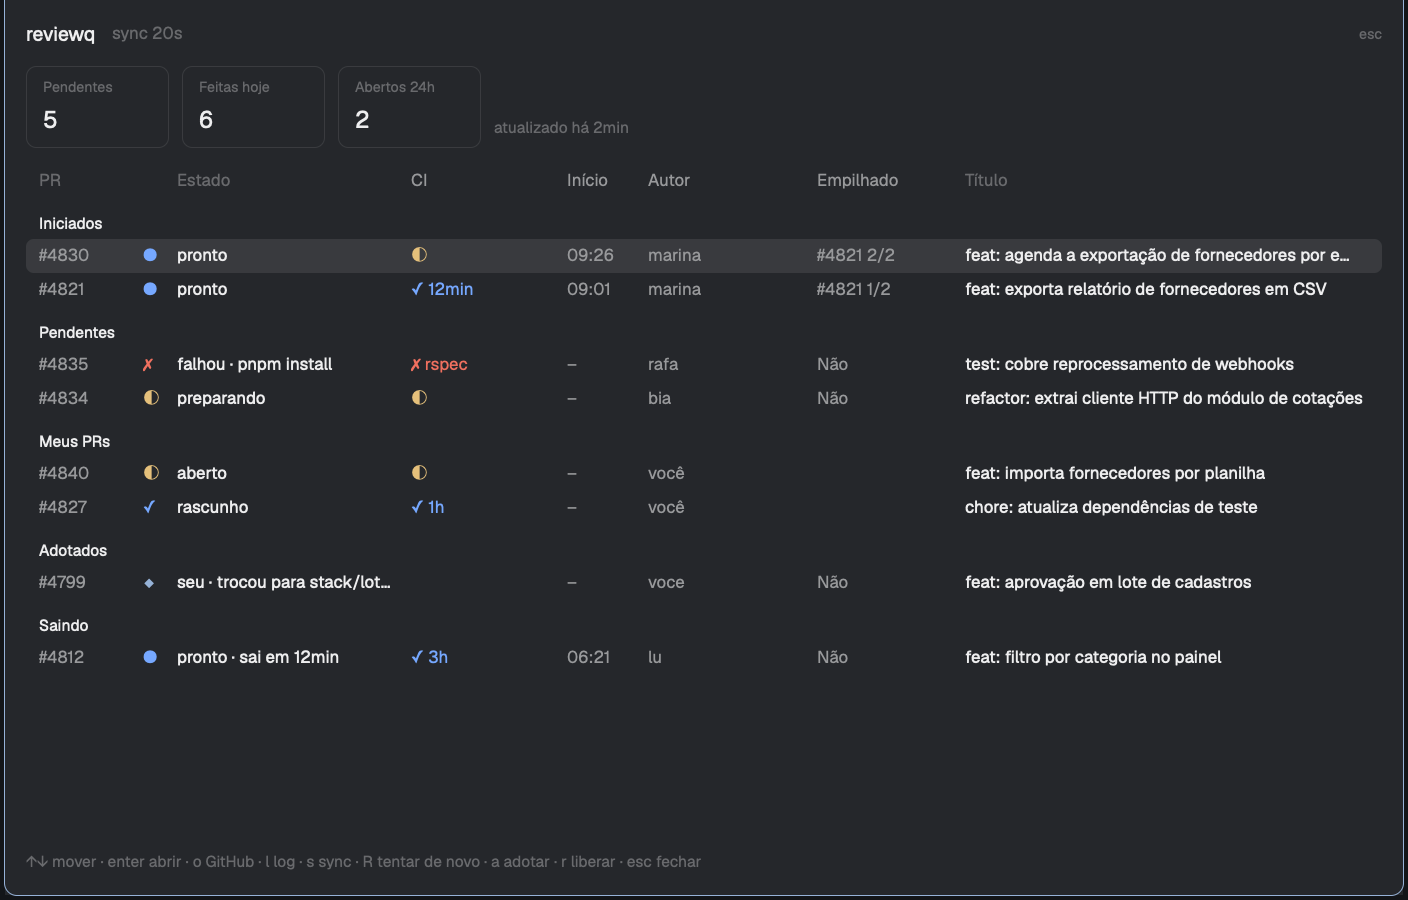
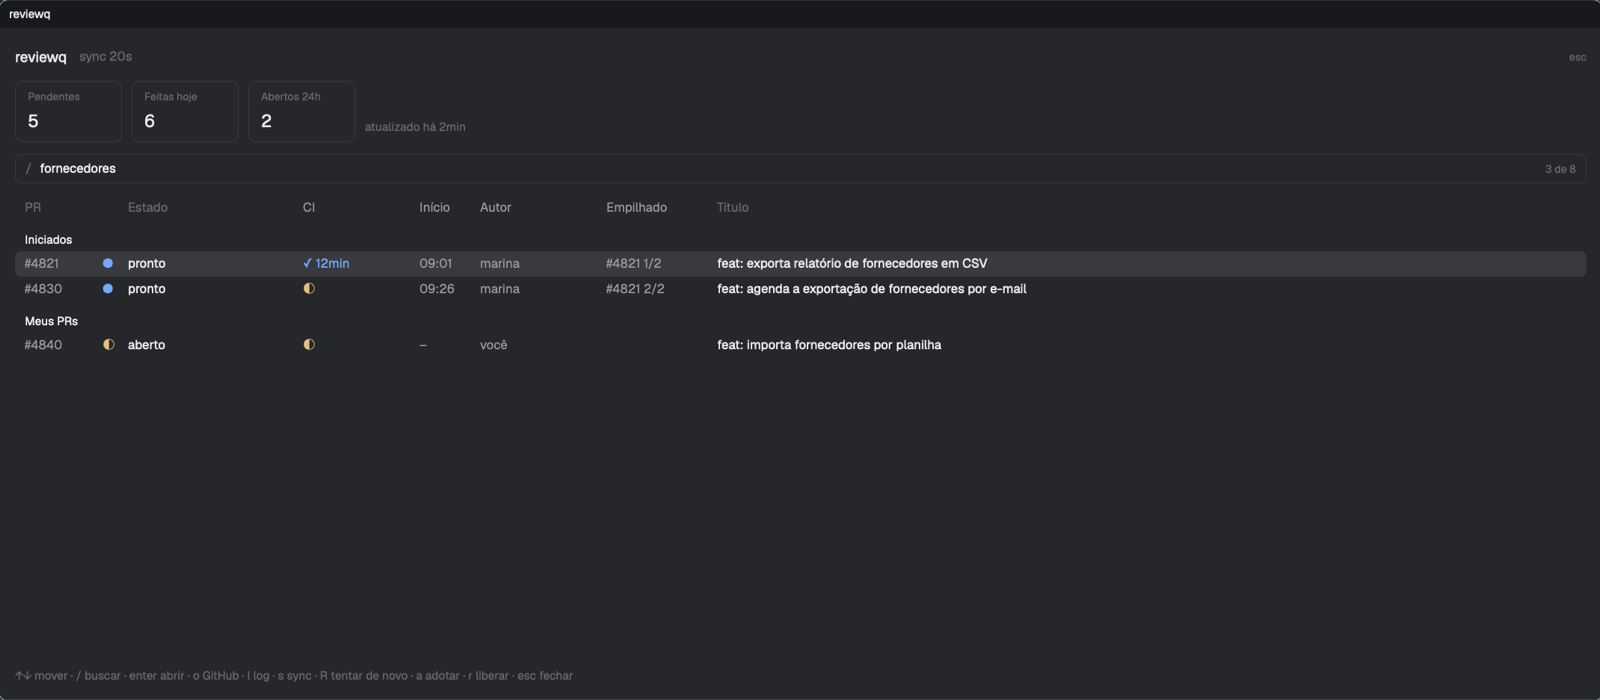
docs: preview do README mostra a busca, e o prop query preenche a busca inicial

diff --git a/mods/reviewq/main.js b/mods/reviewq/main.js
@@ -84,11 +84,11 @@ export default class Reviewq extends View {
     this.sent = null;
     this.width = 0;
     this.isPanel = Boolean(props()?.panel || props()?.overlay);
-    this.query = "";
+    this.query = props()?.query ?? "";
     this.searching = false;
     this.searchEndedAt = 0;
     if (this.isPanel) {
-      this.input = InputState.new({ placeholder: "buscar por #PR, autor ou título" });
+      this.input = InputState.new({ placeholder: "buscar por #PR, autor ou título", value: this.query });
       this.input.on("change", (_e, cx) => { this.query = this.input.value(); cx.notify(); });
       this.input.on("submit", (_e, cx) => this.endSearch(cx));
       this.handle = cx.focus_handle();

diff --git a/RECIPE.md b/RECIPE.md
@@ -29,7 +29,7 @@ Your GitHub review queue inside Herdr: a status bar block with how many reviews 
 - Keys in the panel: ↑↓/j k move, enter runs `herdr-app-reviewq focus pr --pr <key>` and closes the dialog (on "Meus PRs", opens the URL), `o` opens the URL, `l` opens the setup log with `less +G` in a new tab, `s` sync, `R` retry, `a` adopt and `r` release after `y`/`n`; `/` searches; esc/q closes. Ineligible actions print the reason in the footer. Before sending a confirmed request, the row is checked again against the latest view.
 - **Search.** `/` (or a click on the search box) shows a box between the counters and the list: 30px high, 6px radius, `/` in `dim`, a one-line input, and `N de M` rows in 11px `dim` on the right; `accent` border while typing, `border` after. Typing filters live. Each word of the query (a leading `#` dropped) must fuzzy-match the PR number, the author or the title: the characters in order with gaps allowed; a substring scores most, contiguous characters and word starts score more. Rows keep their sections, best score first inside each, and with no match the list says `nada encontrado para "<query>"`. While typing, `↑` `↓` move, `enter` goes back to the list with the filter kept (the box shows the query), `esc` clears it. With a filter on, `esc` in the list clears it before closing the panel. The footer reads the search help while typing. Confirmed requests look the row up in every row, not only the shown ones.
 - A request is sent with `herdr-app-reviewq request <kind> --pr <key> --json`; its id and time go back to `panel --sent-…` so the footer shows "enviado…", then the daemon's verdict.
-- Prop `demo` (a path to a saved `panel` JSON, such as `assets/demo-panel.json`) draws that file instead of calling the binary and watches nothing: it is how the README screenshot is made with made-up data.
+- Prop `demo` (a path to a saved `panel` JSON, such as `assets/demo-panel.json`) draws that file instead of calling the binary and watches nothing: it is how the README screenshot is made with made-up data. Prop `query` starts the panel with that search already filled in, for the same screenshot.
 - Clicking the bar opens the panel; `mod.open:reviewq` opens it from a key (`mod.json` sets the dialog size).
 
 ## Built from

diff --git a/README.md b/README.md
@@ -1,6 +1,6 @@
 # herdr-app-reviewq
 
-![The reviewq panel in the Herdr app, with made-up data](preview.png)
+![The reviewq panel in the Herdr app, filtered by a search, with made-up data](preview.png)
 
 A macOS daemon that turns your GitHub review queue into ready-to-use spaces in the [Herdr app](https://herdr.dev), plus a Herdr app mod that shows the queue.
 
@@ -155,7 +155,7 @@ Logs live in `~/.local/state/herdr-app-reviewq/`: `daemon.log`, plus one redacte
 `cargo test` runs the suite. The README screenshot uses made-up data:
 
 1. `cargo test --lib readme_screenshot -- --ignored` writes `assets/demo-panel.json`.
-2. Open the panel on that file in a tab: `herdr-app do tab.new "{\"name\":\"reviewq demo\",\"mod\":\"reviewq\",\"props\":{\"panel\":true,\"demo\":\"$PWD/assets/demo-panel.json\"}}"`.
+2. Open the panel on that file in a tab: `herdr-app do tab.new "{\"name\":\"reviewq demo\",\"mod\":\"reviewq\",\"props\":{\"panel\":true,\"demo\":\"$PWD/assets/demo-panel.json\",\"query\":\"fornecedores\"}}"`. The `query` prop starts the panel with that search filled in (the current `preview.png` uses `fornecedores`); leave it out for the full list.
 3. `herdr-app shot`, crop the pane and save it as `preview.png`. Crop out the sidebar and other panes: they show your real spaces.
 
 ## License
